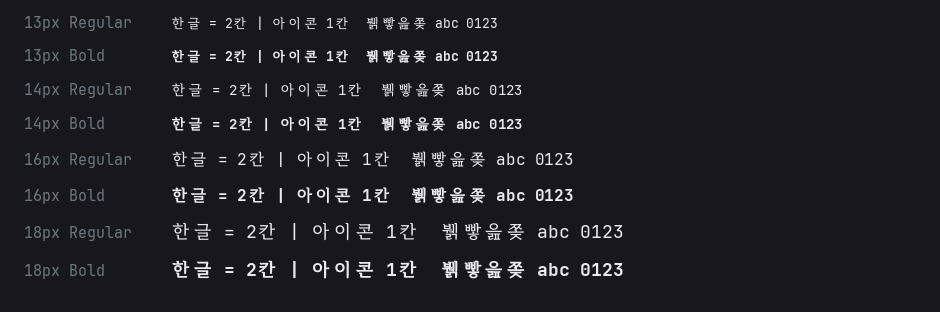
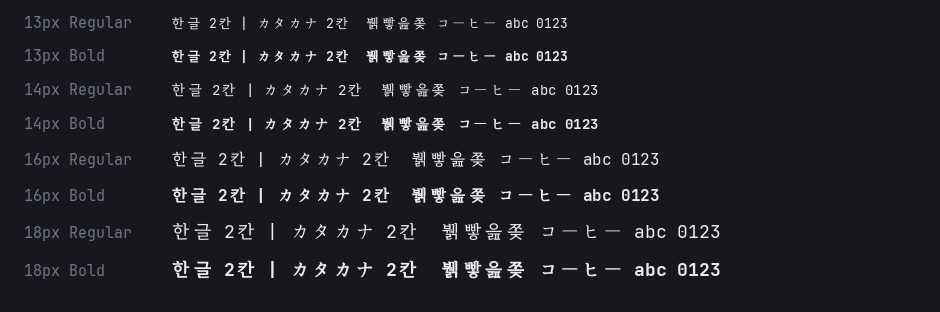
docs: 가나 지원을 적는다
적용 범위에 히라가나·가타카나 구간과 ー 대체를 적고, 알려진 한계에 빠진
가나 열아홉 자를 적는다. 크기별 미리보기 문구에도 가나를 넣는다.

diff --git a/docs/make-preview.py b/docs/make-preview.py
@@ -62,7 +62,7 @@ def weights():
 
 def sizes():
     """실제 터미널 크기. 명조가 몇 px 부터 뭉개지는지 보라고 넣는다."""
-    text = "한글 = 2칸 | 아이콘 1칸  뷁빻읊쫒 abc 0123"
+    text = "한글 2칸 | カタカナ 2칸  뷁빻읊쫒 コーヒー abc 0123"
     rows = [(s, w) for s in (13, 14, 16, 18) for w in ("Regular", "Bold")]
     im, d = canvas(940, 30 + sum(s + 20 for s, _ in rows))
     y = 18
